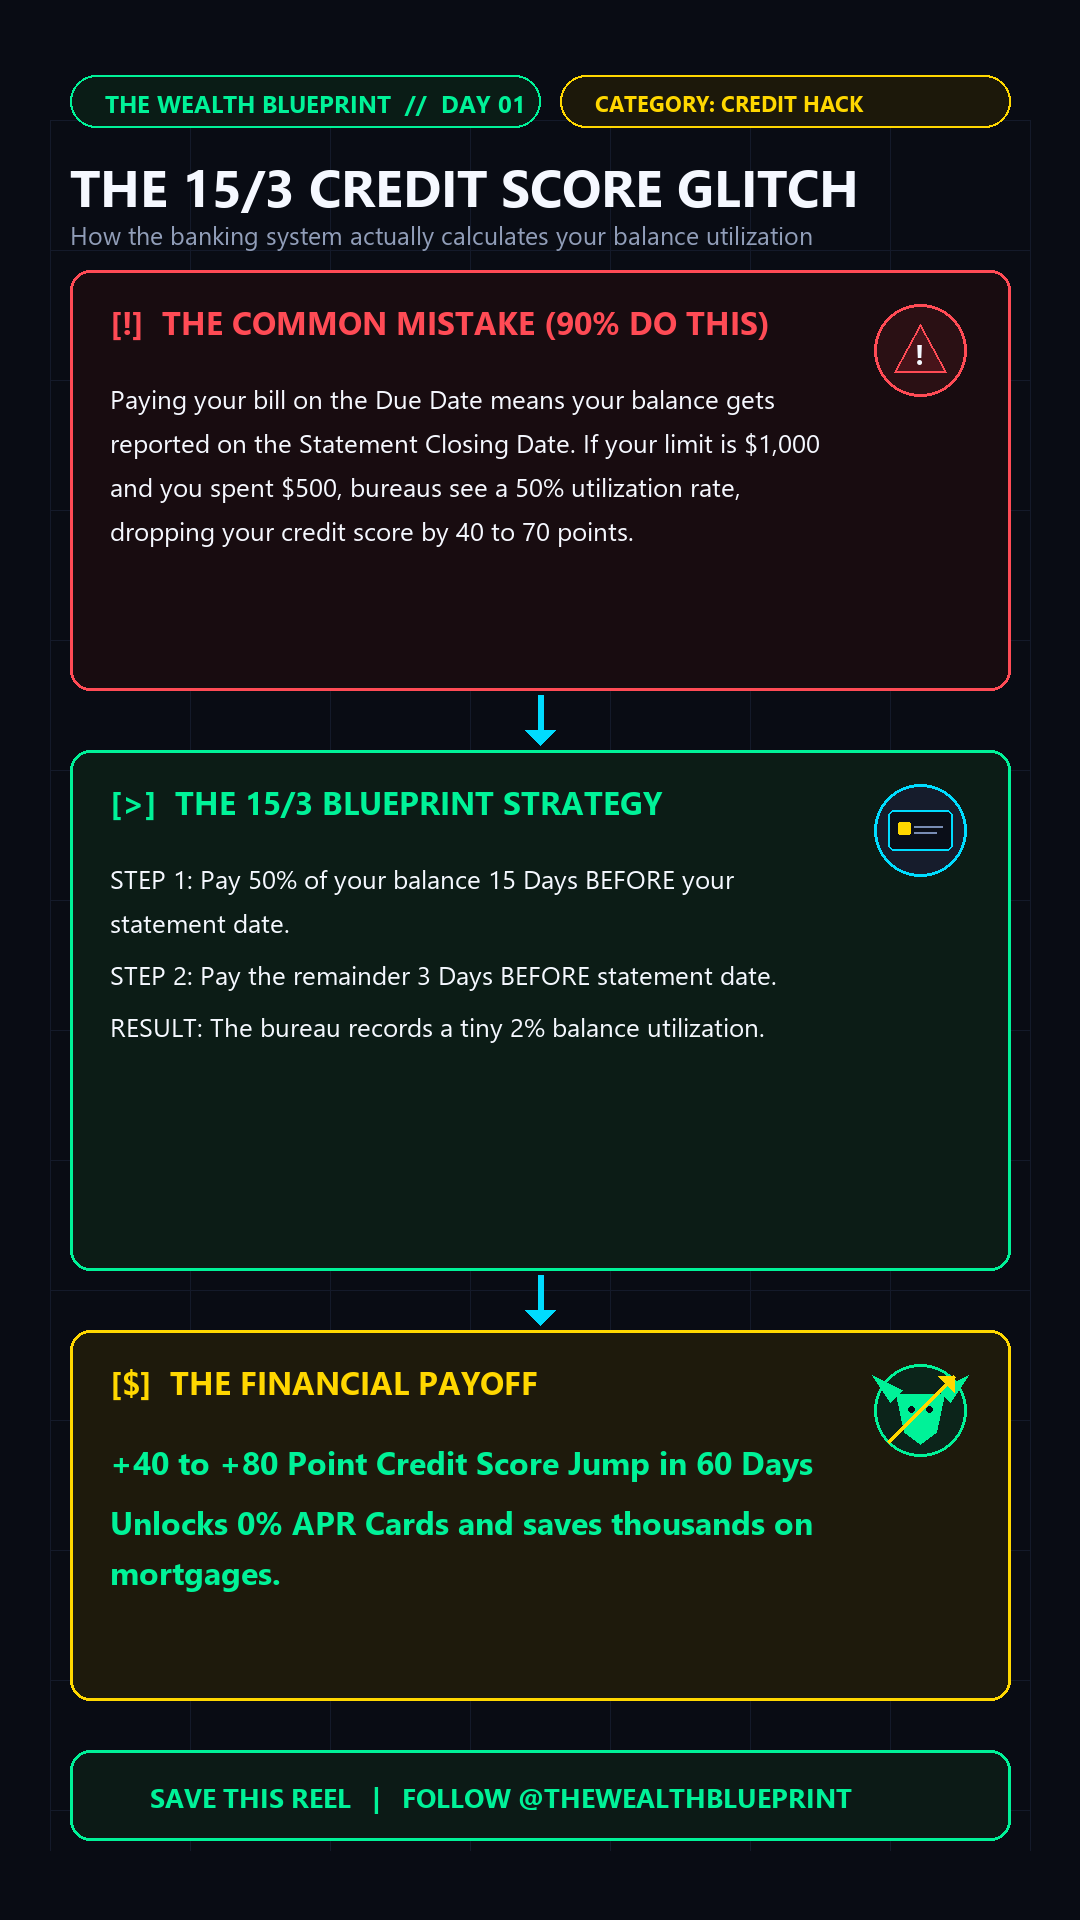
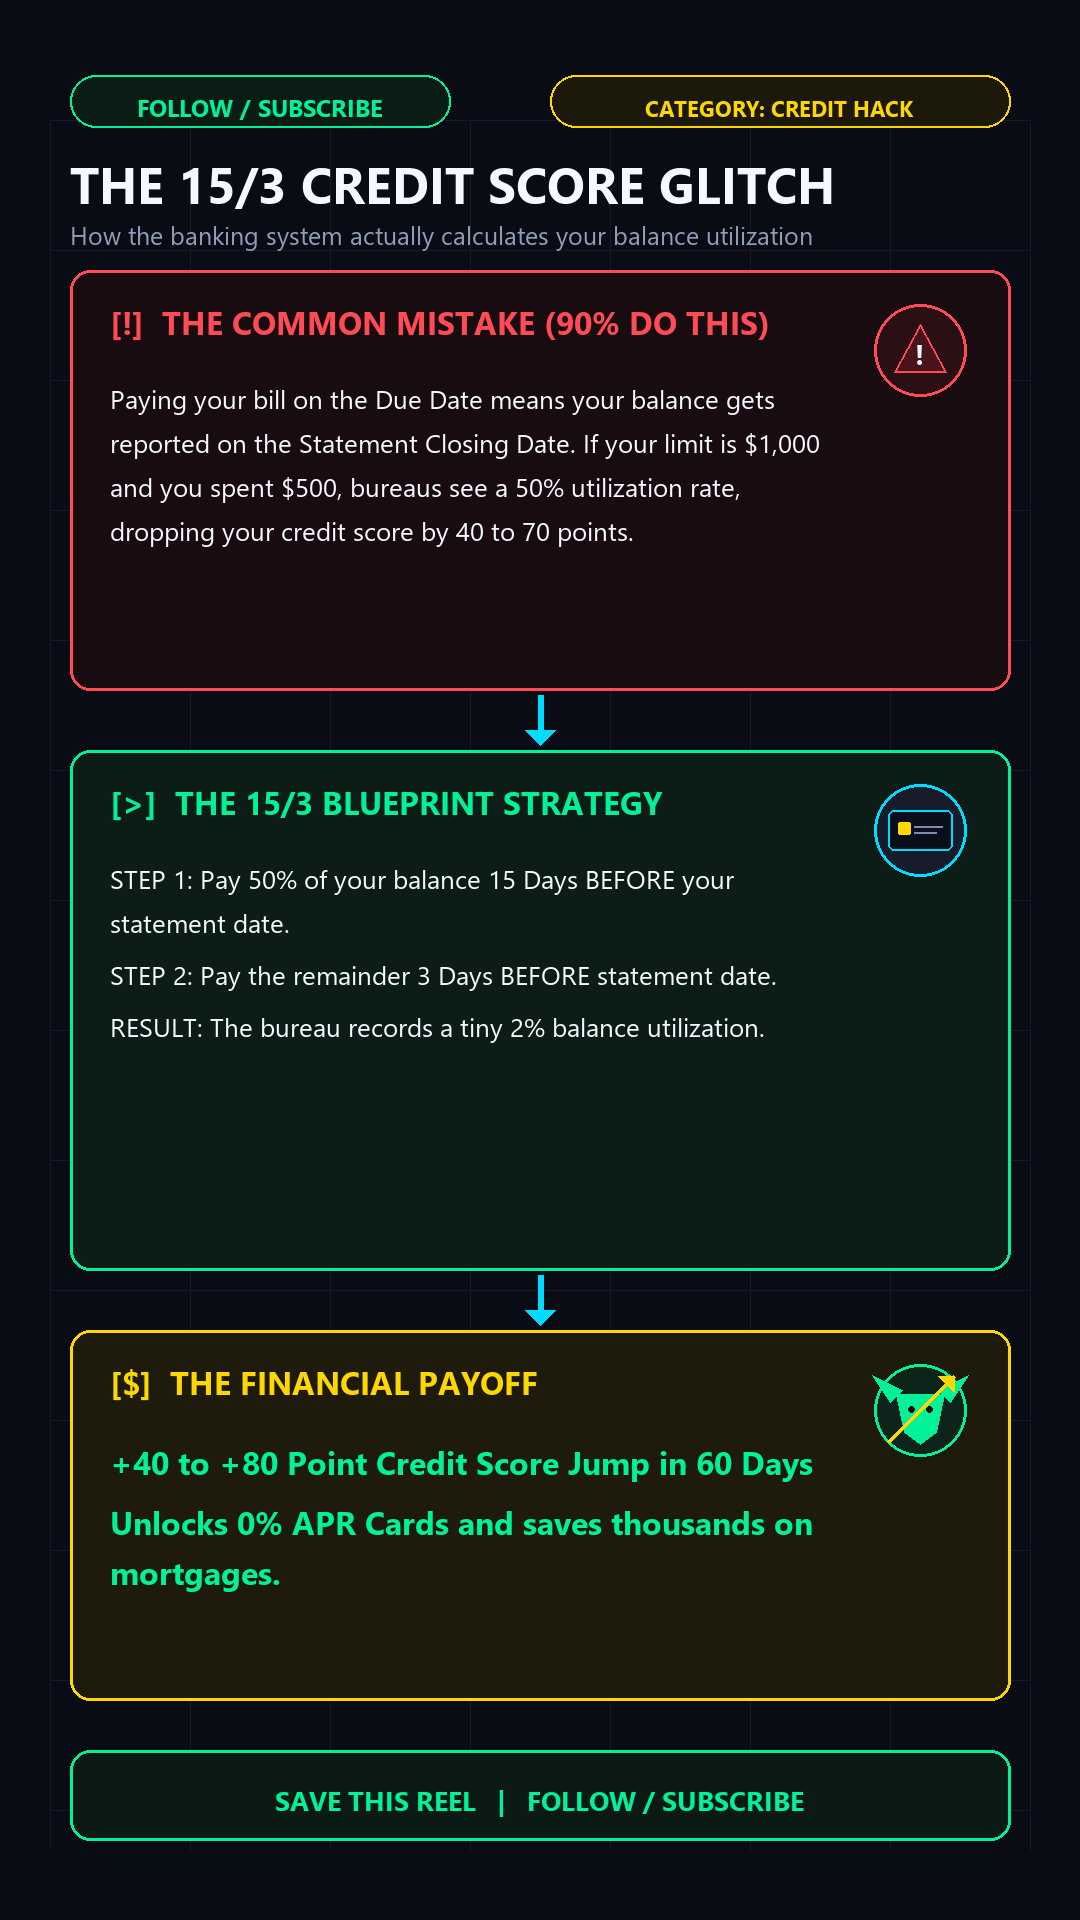
Update 15 post renders: Replace Day headers with Follow/Subscribe, auto-fit titles, and contain text within card borders

diff --git a/generate_15_posts.py b/generate_15_posts.py
@@ -143,30 +143,54 @@ def draw_base_template(draw, title: str, category: str, subtitle: str, day_num: 
     for gx in range(50, 1050, 140):
         draw.line([(gx, 120), (gx, 1850)], fill=GRID_COLOR, width=1)
 
-    # Top Brand Pill
-    pill_text = f"THE WEALTH BLUEPRINT  //  DAY {day_num:02d}"
+    # Top Follow / Subscribe Pill
+    pill_text = "FOLLOW / SUBSCRIBE"
     pill_font = get_font(24, bold=True)
-    draw_card(draw, 70, 75, 470, 52, border_color=GREEN, bg_color=(10, 28, 22), radius=26, border_width=2)
-    draw.text((105, 87), pill_text, fill=GREEN, font=pill_font)
+    pill_w = 380
+    draw_card(draw, 70, 75, pill_w, 52, border_color=GREEN, bg_color=(10, 28, 22), radius=26, border_width=2)
+    p_bbox = pill_font.getbbox(pill_text)
+    p_tx = 70 + (pill_w - (p_bbox[2] - p_bbox[0])) // 2
+    p_ty = 75 + (52 - (p_bbox[3] - p_bbox[1])) // 2
+    draw.text((p_tx, p_ty), pill_text, fill=GREEN, font=pill_font)
 
     # Category Pill
     cat_font = get_font(22, bold=True)
-    cat_w = 400
-    draw_card(draw, 560, 75, 450, 52, border_color=GOLD, bg_color=(28, 24, 10), radius=26, border_width=2)
-    draw.text((595, 88), f"CATEGORY: {category.upper()}", fill=GOLD, font=cat_font)
+    cat_text = f"CATEGORY: {category.upper()}"
+    cat_w = 460
+    draw_card(draw, 550, 75, cat_w, 52, border_color=GOLD, bg_color=(28, 24, 10), radius=26, border_width=2)
+    c_bbox = cat_font.getbbox(cat_text)
+    c_tx = 550 + (cat_w - (c_bbox[2] - c_bbox[0])) // 2
+    c_ty = 75 + (52 - (c_bbox[3] - c_bbox[1])) // 2
+    draw.text((c_tx, c_ty), cat_text, fill=GOLD, font=cat_font)
 
-    # Main Headline
-    title_font = get_font(52, bold=True)
+    # Main Headline with auto-fit
+    title_size = 50
+    title_font = get_font(title_size, bold=True)
+    t_bbox = title_font.getbbox(title)
+    while (t_bbox[2] - t_bbox[0]) > 940 and title_size > 28:
+        title_size -= 2
+        title_font = get_font(title_size, bold=True)
+        t_bbox = title_font.getbbox(title)
     draw.text((70, 150), title, fill=WHITE, font=title_font)
     
-    # Subtitle Hook
-    sub_font = get_font(25, bold=False)
+    # Subtitle Hook with auto-fit
+    sub_size = 25
+    sub_font = get_font(sub_size, bold=False)
+    s_bbox = sub_font.getbbox(subtitle)
+    while (s_bbox[2] - s_bbox[0]) > 940 and sub_size > 18:
+        sub_size -= 1
+        sub_font = get_font(sub_size, bold=False)
+        s_bbox = sub_font.getbbox(subtitle)
     draw.text((70, 218), subtitle, fill=MUTED, font=sub_font)
 
-    # Bottom Call to Action Card
+    # Bottom Call to Action Card (Mathematically Centered)
     foot_font = get_font(27, bold=True)
+    foot_text = "SAVE THIS REEL   |   FOLLOW / SUBSCRIBE"
     draw_card(draw, 70, 1750, 940, 90, border_color=GREEN, bg_color=(12, 26, 22), radius=20, border_width=3)
-    draw.text((150, 1778), "SAVE THIS REEL   |   FOLLOW @THEWEALTHBLUEPRINT", fill=GREEN, font=foot_font)
+    f_bbox = foot_font.getbbox(foot_text)
+    f_tx = 70 + (940 - (f_bbox[2] - f_bbox[0])) // 2
+    f_ty = 1750 + (90 - (f_bbox[3] - f_bbox[1])) // 2
+    draw.text((f_tx, f_ty), foot_text, fill=GREEN, font=foot_font)
 
 # -------------------------------------------------------------
 # 15 Specific Infographic Content Definitions
